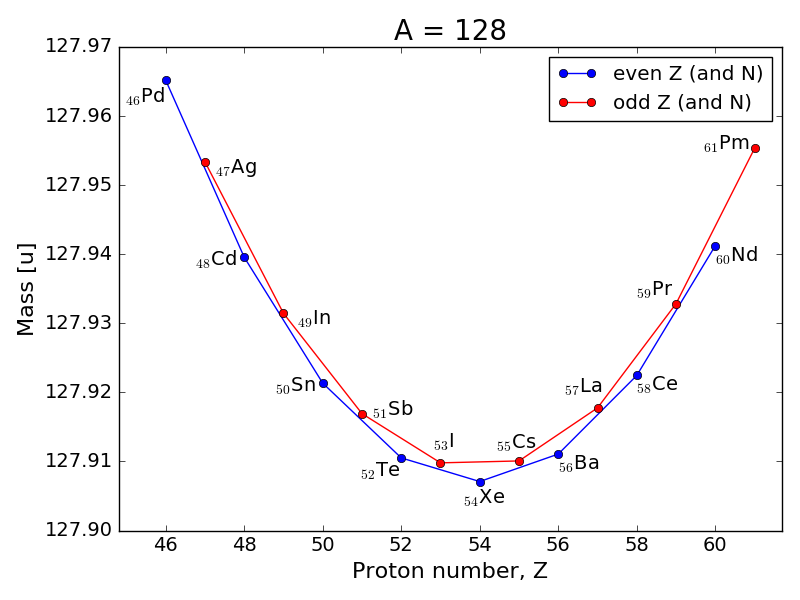
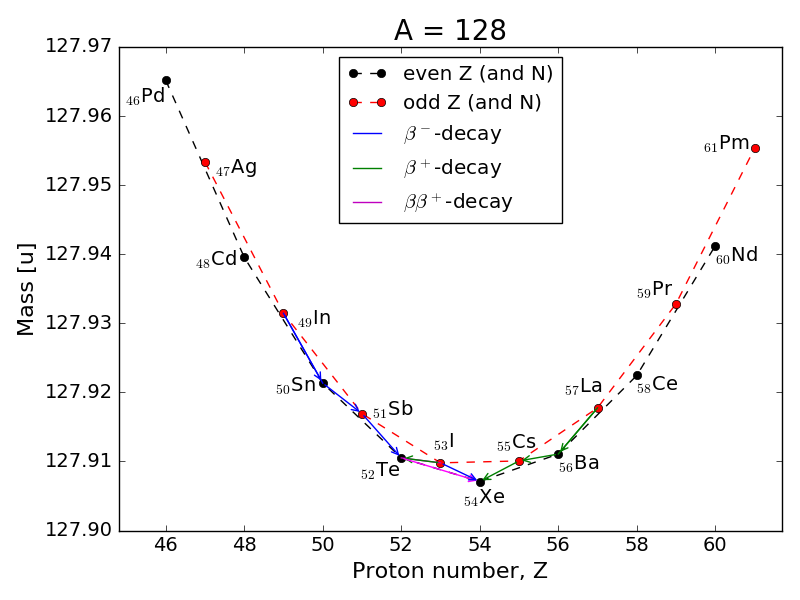
Updated plots and scripts

diff --git a/Home exam/ex2d-A128.py b/Home exam/ex2d-A128.py
@@ -39,14 +39,7 @@ mass = [M(i, A) for i in z]
 m = array(mass) 
 
 fig = figure(1)
-plot(z[::2], m[::2], "bo-", z[1::2], m[1::2], "ro-")
-title("A = %g" %A, fontsize=20)
-xlabel("Proton number, Z", fontsize=16)
-ylabel("Mass [u]", fontsize=16)
-legend(["even Z (and N)", "odd Z (and N)"])
-tick_params(labelsize=14)
-ax = gca()
-ax.get_yaxis().get_major_formatter().set_useOffset(False) # Preventing offset of y-axis
+plot(z[::2], m[::2], "ko--", z[1::2], m[1::2], "ro--")
 
 # Writing labels on each point
 element = [r'$_{46}$Pd', r'$_{47}$Ag', r'$_{48}$Cd', r'$_{49}$In', r'$_{50}$Sn', 
@@ -61,6 +54,39 @@ for element, Z, M, hoffsetts, voffsetts in zip(element, z, m, hoffsetts, voffset
     annotate(element, xy=(Z, M), xytext=(hoffsetts, voffsetts), ha='center', va='bottom', 
              textcoords='offset points', fontsize=14)
 
+for u in range(len(z)):
+  print("%g, %.9f" % (z[u], m[u]))
+
+# Beta-decay arrows
+plot([49, 50], [127.931437115, 127.921332747], "b-") # Beta^-
+plot([56, 57], [127.911065318, 127.917747210], "g-") # Beta^+
+plot([52, 53], [127.910510470, 127.909792562], "m-") # BetaBeta^-
+annotate('', xy=(49, 127.931437115), xycoords="data", xytext=(50, 127.921332747), 
+         textcoords="data", arrowprops=dict(arrowstyle="<-", color="blue"))
+annotate('', xy=(50, 127.921332747), xycoords="data", xytext=(51, 127.916914939), 
+         textcoords="data", arrowprops=dict(arrowstyle="<-", color="blue"))
+annotate('', xy=(51, 127.916914939), xycoords="data", xytext=(52, 127.910510470), 
+         textcoords="data", arrowprops=dict(arrowstyle="<-", color="blue"))
+annotate('', xy=(52, 127.910510470), xycoords="data", xytext=(53, 127.909792562), 
+         textcoords="data", arrowprops=dict(arrowstyle="->", color="green"))
+annotate('', xy=(52, 127.910510470), xycoords="data", xytext=(54, 127.907087994), 
+         textcoords="data", arrowprops=dict(arrowstyle="<-", color="magenta"))
+annotate('', xy=(53, 127.909792562), xycoords="data", xytext=(54, 127.907087994), 
+         textcoords="data", arrowprops=dict(arrowstyle="<-", color="blue"))
+annotate('', xy=(54, 127.907087994), xycoords="data", xytext=(55, 127.910069986), 
+         textcoords="data", arrowprops=dict(arrowstyle="->", color="green"))
+annotate('', xy=(55, 127.910069986), xycoords="data", xytext=(56, 127.911065318), 
+         textcoords="data", arrowprops=dict(arrowstyle="->", color="green"))
+annotate('', xy=(56, 127.911065318), xycoords="data", xytext=(57, 127.917747210), 
+         textcoords="data", arrowprops=dict(arrowstyle="->", color="green"))
+
+title("A = %g" %A, fontsize=20)
+xlabel("Proton number, Z", fontsize=16)
+ylabel("Mass [u]", fontsize=16)
+legend(["even Z (and N)", "odd Z (and N)", r"$\beta^-$-decay", r"$\beta^+$-decay", r"$\beta\beta^+$-decay"], loc=0)
+tick_params(labelsize=14)
+ax = gca()
+ax.get_yaxis().get_major_formatter().set_useOffset(False) # Preventing offset of y-axis
 fig.set_tight_layout(True)
 axis((44.8, 61.7, 127.9, 127.97))
 savefig("2d-A%g.png" %A)

diff --git a/Home exam/ex2d-A135.py b/Home exam/ex2d-A135.py
@@ -38,7 +38,7 @@ mass = [M(i, A) for i in z]
 m = array(mass) 
 
 fig = figure(1)
-plot(z, m, "o-")
+plot(z, m, "ko-")
 title("A = %g" %A, fontsize=20)
 xlabel("Proton number, Z", fontsize=16)
 ylabel("Mass [u]", fontsize=16)
@@ -60,12 +60,12 @@ for element, Z, M, hoffsetts, voffsetts in zip(element, z, m, hoffsetts, voffset
              textcoords='offset points', fontsize=14)
 # Left arrow and text
 annotate('', xy=(53, 134.933), xycoords="data", xytext=(51, 134.953), 
-         textcoords="data", arrowprops=dict(arrowstyle="->", color="red"))
+         textcoords="data", arrowprops=dict(arrowstyle="->", color="green"))
 text(52.2, 134.945, r'$\beta^-$-decay', fontsize=14)
 
 # Right arrow and text
 annotate('', xy=(60, 134.933), xycoords="data", xytext=(62, 134.953), 
-         textcoords="data", arrowprops=dict(arrowstyle="->", color="red"))
+         textcoords="data", arrowprops=dict(arrowstyle="->", color="blue"))
 text(58.3, 134.945, r'$\beta^+$-decay', fontsize=14)
 
 fig.set_tight_layout(True)
